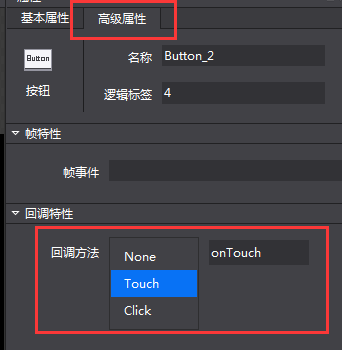
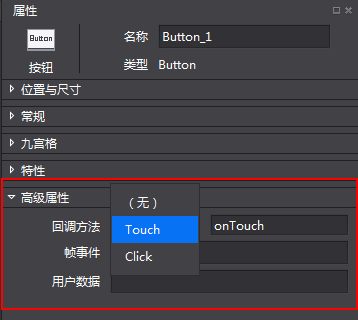
update the description of properties panel

diff --git a/manual/studio/v4/chapter3/Editor/UIOverview/en.md b/manual/studio/v4/chapter3/Editor/UIOverview/en.md
@@ -346,16 +346,12 @@ The parent-child hierarchies: Cocos Studio uses the concept of parent-child hier
 In the Properties panel, you can make modifications of any widgets' properties. 
 
 ![image](res_en/image065.png) 
+
+In Properties panel, there are title section and several tabs, including Position and Size, General properties, 9-Slice, Feature and Advanced properties. 
  
-Property panel has two tabs, Basic properties and Advanced properties. 
-
-**Basic properties** include sections as Position and Size, General,  9-Slice and Feature.  
-
-**Advanced properties** include control layout, sub control layout and frame events. When select one or multiple widgets in Canvas, you can adjust the corresponding attributes in the Properties panel. 
-
-![image](res_en/image066.png)
-
 **Title section**: shows the type of the currently selected widget. You can find a widget in the game by searching its name or tag. 
+
+![image](res_en/image069.png)
 
 **Position and Size**
 
@@ -368,6 +364,10 @@ This section includes some settings about anchor point, position and size. Adapt
 General properties contain basic properties of a widget, such as Visible, Scale, Rotation, Skew, etc. General properties are the same for most widgets, but there are also exceptions for some widgets, please refer to "Online Help".  
 
 ![image](res_en/image068.png)
+
+**Advanced properties** include control layout, sub control layout and frame events. When select one or multiple widgets in Canvas, you can adjust the corresponding attributes in the Properties panel. 
+
+![image](res_en/image066.png)
  
 [**9-Slice**](../../UI/9Slice/en.md)
 
